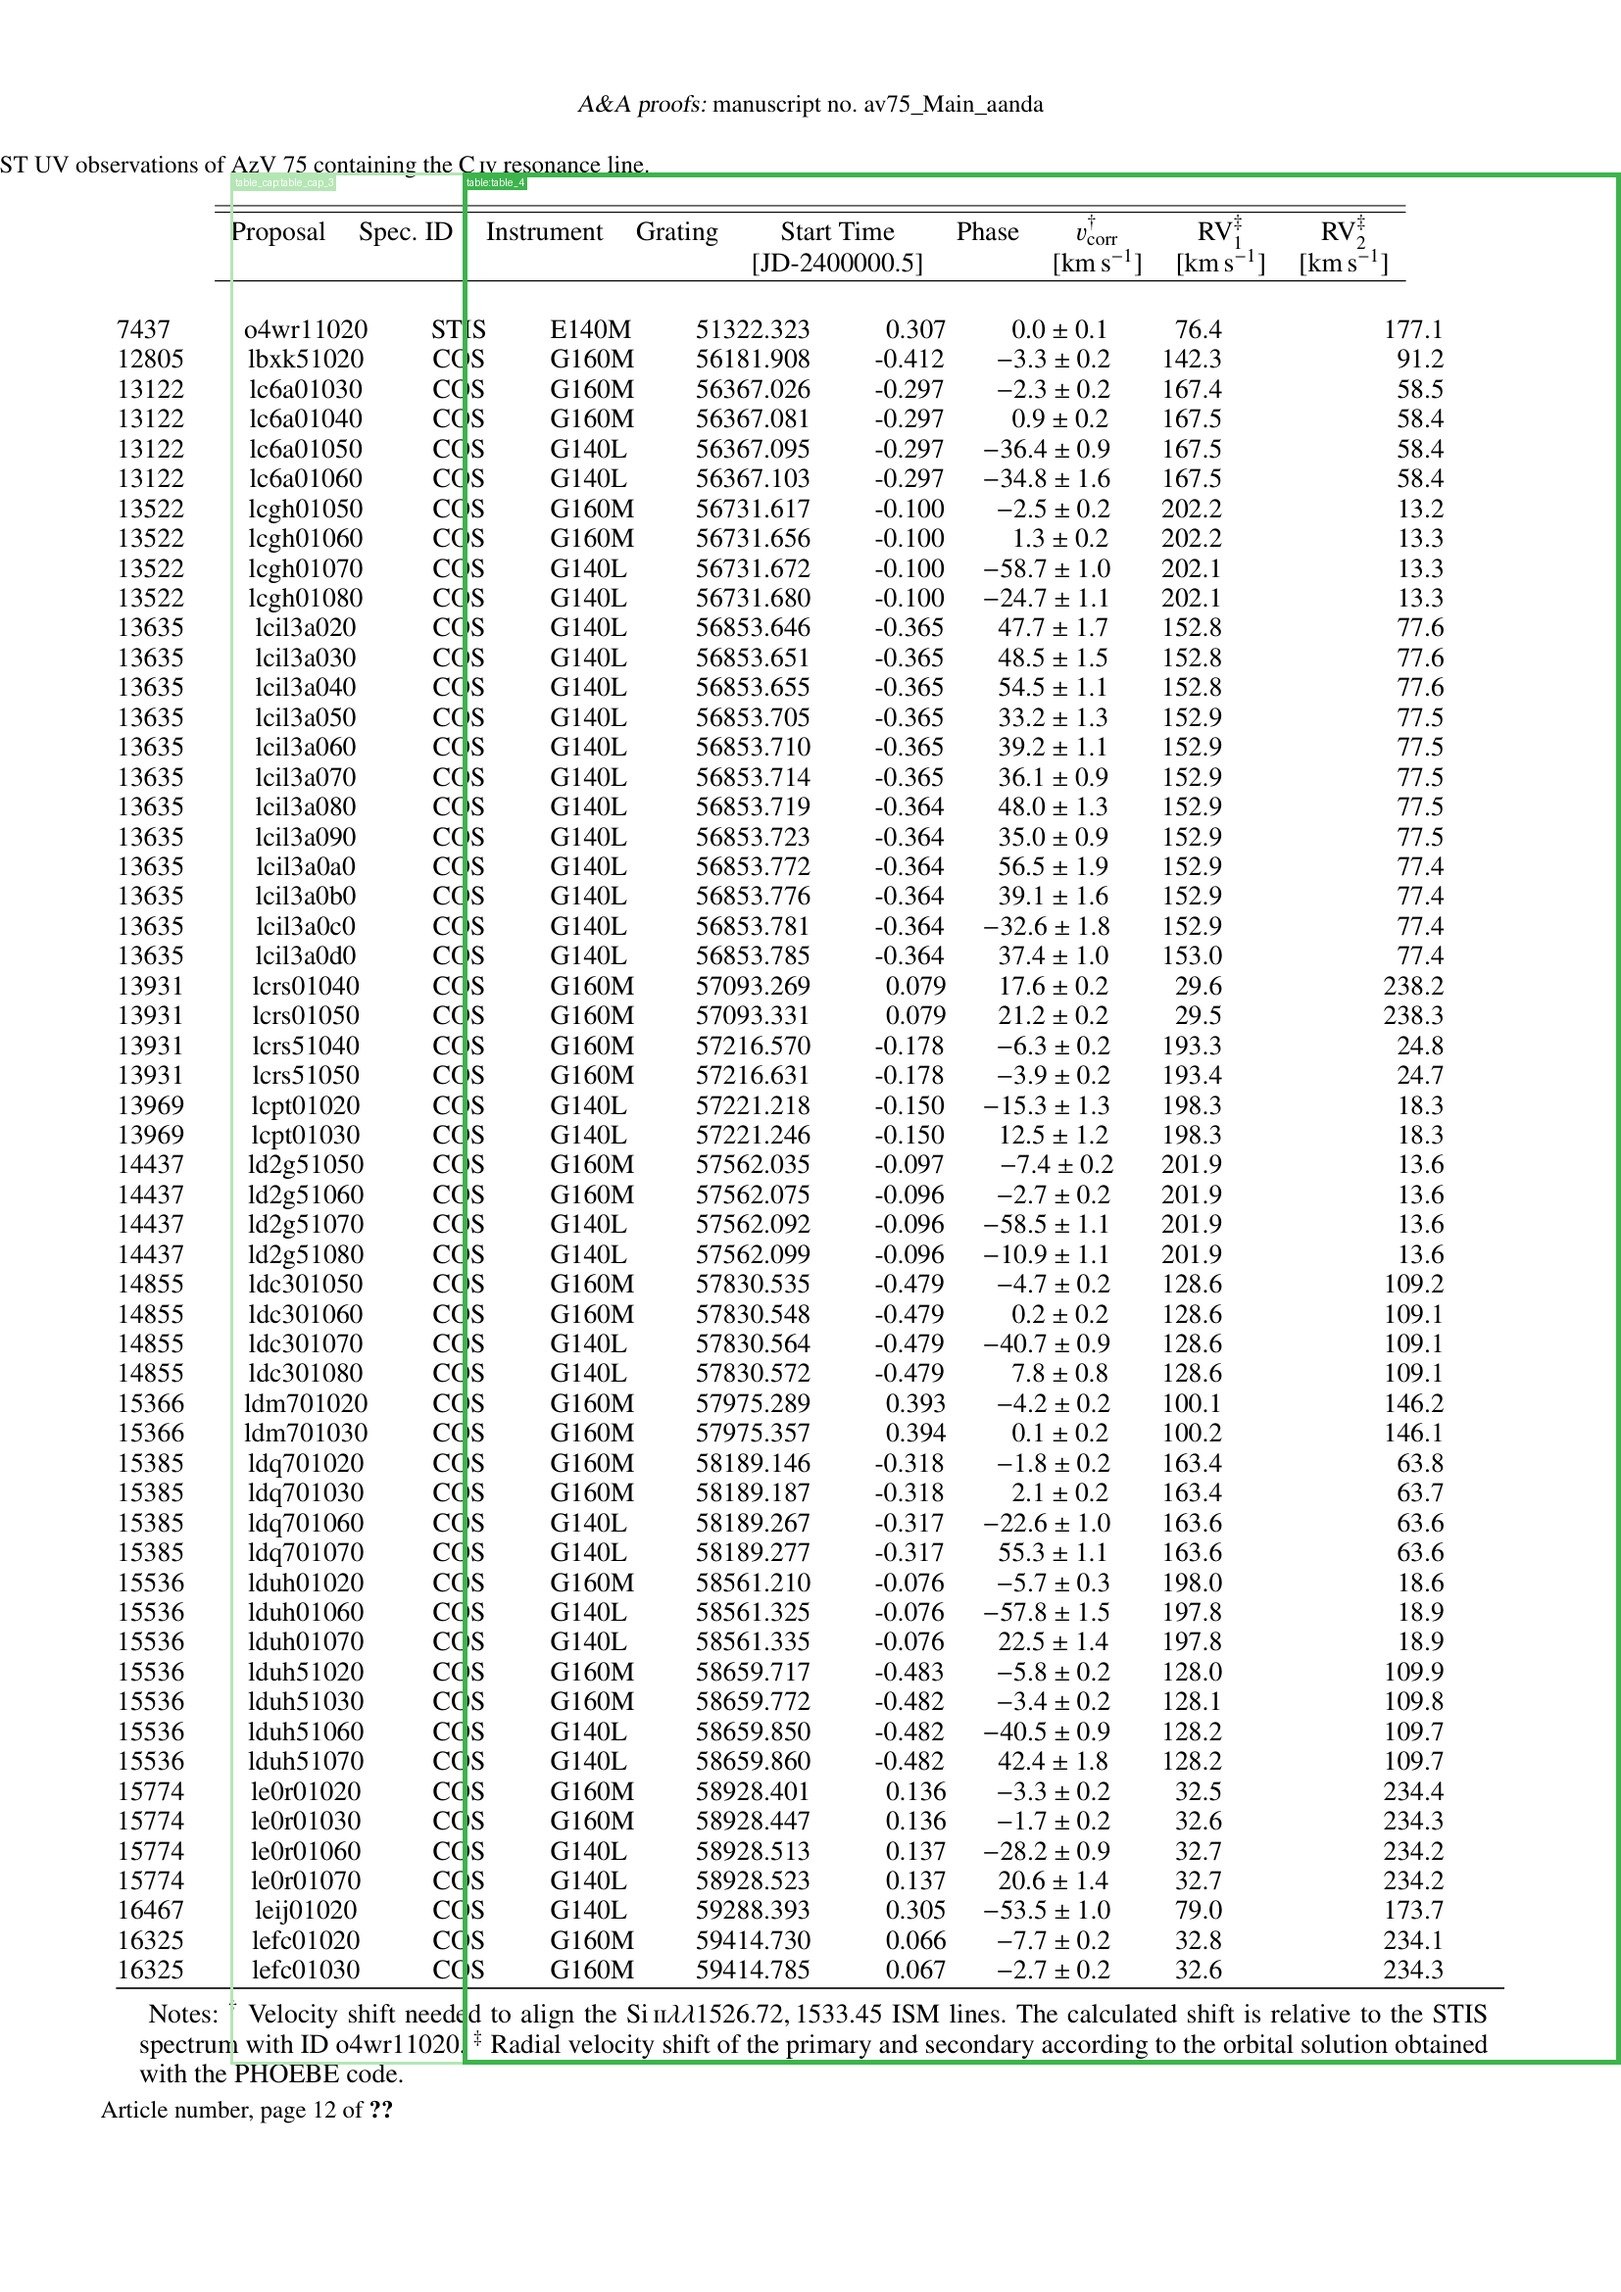
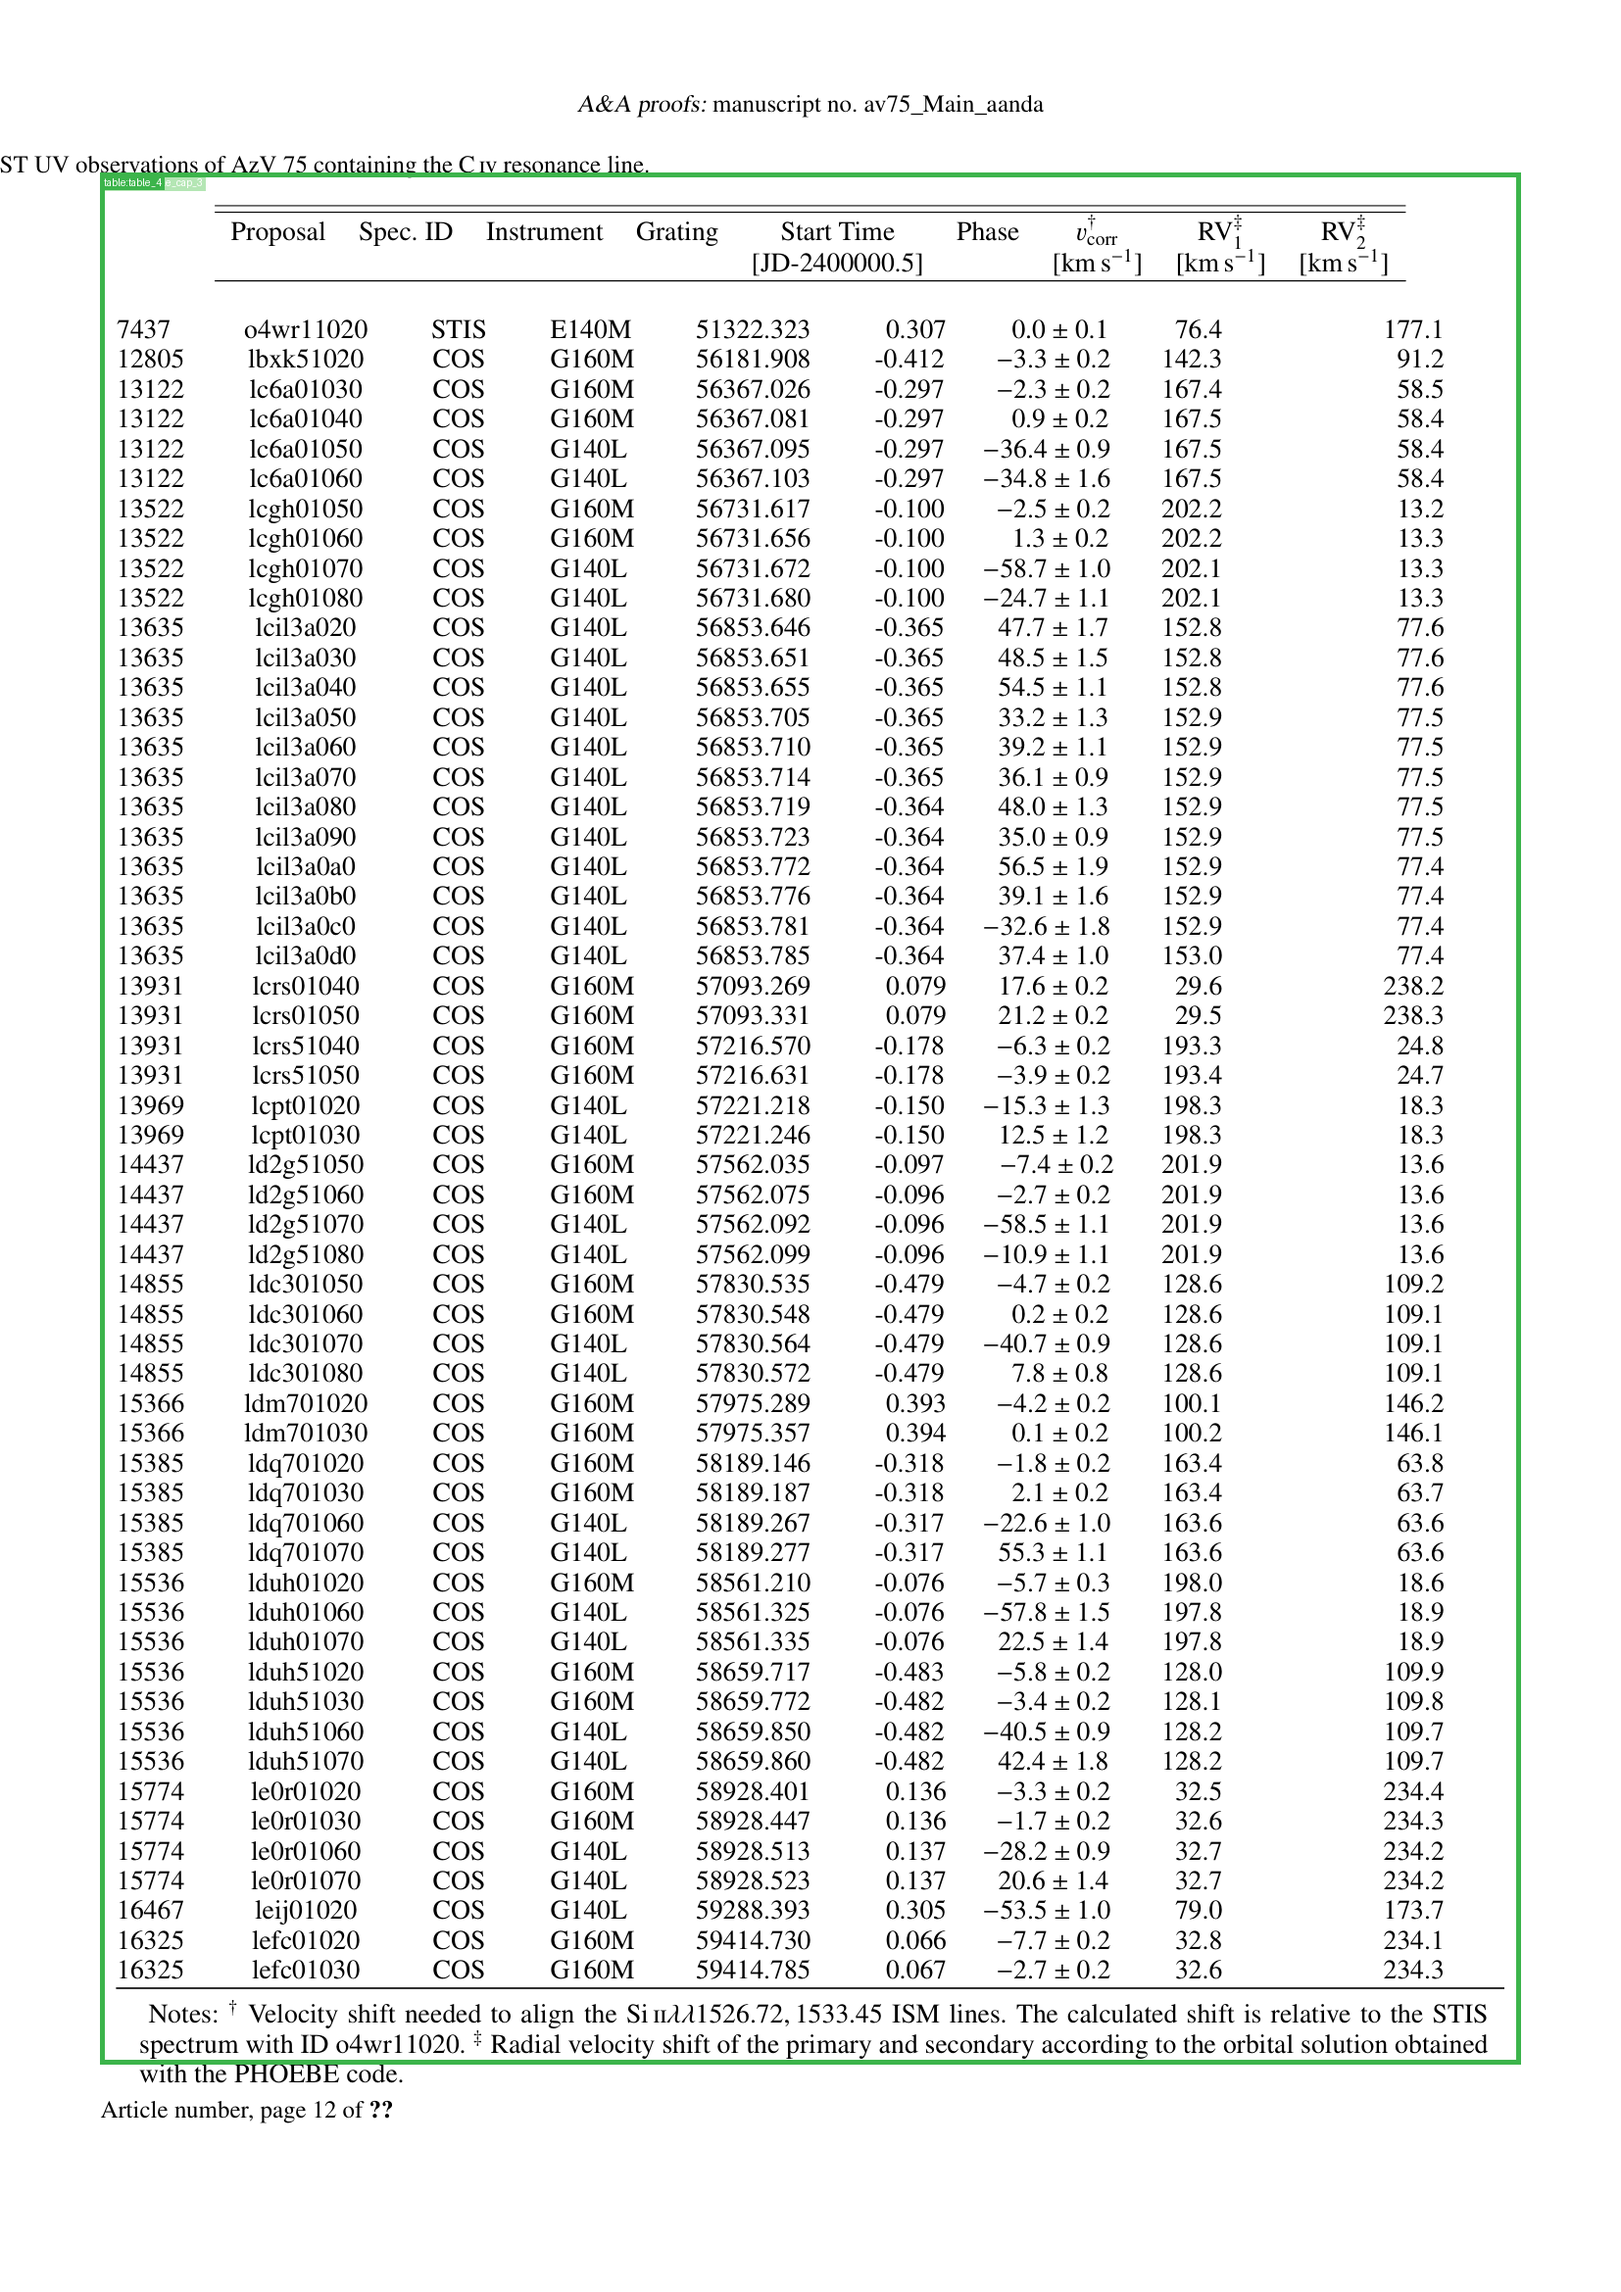
Longtable + multi-page spans cover the full textblock horizontally.
astro Table A.2 bboxes previously started at x = the top-mark's inner
x (~85pt in, i.e. at the first cell's indent). The rendered longtable
actually fills the whole textblock width, so the bbox was dropping the
leftmost column on every continuation page.

New behaviour:

- LabeledAnchor gets a ``use_textblock_x`` flag, set True by the
  longtable injector. When rendering, the x range comes from
  ``page_info.text_left_pt`` / ``text_right_pt`` regardless of where
  the top mark landed.
- Any span whose top and bot mark live on different pages is also
  forced to use the textblock x range, since by definition the object
  is wider / crosses the whole block on intermediate pages.

Verified on astro pages 12 & 13 (longtable) - bbox now covers from the
first column (Proposal) to the last column (RV_2). 51 tests repass
after rebaselining.

diff --git a/src/arxiv_layout/render.py b/src/arxiv_layout/render.py
@@ -134,20 +134,29 @@ def resolve_labels(
             if chosen_top is None or chosen_bot is None:
                 continue
 
-            # X-extent: use \the\hsize reported at the mark's location when
-            # available; otherwise fall back to column geometry.
-            mark_info = marks.get(chosen_top_name) if chosen_top_name else None
-            if mark_info is not None and mark_info.hsize_sp > 0:
-                hsize_pt = mark_info.hsize_sp / SP_PER_PT
-            else:
-                hsize_pt = page_info.columnwidth_pt or page_info.textwidth_pt
-            x0 = _pt_from_sp(chosen_top.posx_sp)
-            x1 = x0 + hsize_pt
-
             top_page = chosen_top.abspage
             bot_page = chosen_bot.abspage
             if top_page > bot_page:
                 top_page, bot_page = bot_page, top_page
+
+            # X-extent: use \the\hsize reported at the mark's location when
+            # available; otherwise fall back to column geometry. For labels
+            # that flag themselves as full-textblock (longtable) or whose
+            # span crosses pages (any cross-page float), the mark's x
+            # doesn't describe the actual render -- the rendered object
+            # covers the full textblock -- so force text_left/text_right.
+            use_textblock = label.use_textblock_x or (top_page != bot_page)
+            if use_textblock:
+                x0 = page_info.text_left_pt
+                x1 = page_info.text_right_pt
+            else:
+                mark_info = marks.get(chosen_top_name) if chosen_top_name else None
+                if mark_info is not None and mark_info.hsize_sp > 0:
+                    hsize_pt = mark_info.hsize_sp / SP_PER_PT
+                else:
+                    hsize_pt = page_info.columnwidth_pt or page_info.textwidth_pt
+                x0 = _pt_from_sp(chosen_top.posx_sp)
+                x1 = x0 + hsize_pt
 
             # For multi-page spans we clip to the textblock vertical bounds
             # so the emitted bbox doesn't bleed into headers / page numbers

diff --git a/src/arxiv_layout/injector.py b/src/arxiv_layout/injector.py
@@ -204,6 +204,13 @@ class LabeledAnchor:
     float_id: str | None     # eg figure_0 (None for freestanding listings)
     anchor_names: list[str]  # zref anchor names we read coordinates from
     method: str              # "wrap" (2D corners) or "span" (top/bot pair, x from textwidth)
+    # For envs whose rendered width is always the full textblock (longtable,
+    # multi-page spans), tell the resolver to ignore the top-mark's x and
+    # use page_info.text_left_pt / text_right_pt instead. The mark's x
+    # reported for e.g. a \begin{longtable} lands at the first cell's indent,
+    # not the table's actual left edge, so the bbox drops the leftmost
+    # column otherwise.
+    use_textblock_x: bool = False
 
     def as_dict(self) -> dict:
         return {
@@ -212,6 +219,7 @@ class LabeledAnchor:
             "float_id": self.float_id,
             "anchor_names": self.anchor_names,
             "method": self.method,
+            "use_textblock_x": self.use_textblock_x,
         }
 
 
@@ -959,6 +967,7 @@ class LatexBBoxInjector:
                     float_id=float_id,
                     anchor_names=[inner_top, inner_bot, outer_top, outer_bot],
                     method="span",
+                    use_textblock_x=True,
                 )
             )
             # for the body we use a span pair around the tabular content
@@ -970,6 +979,7 @@ class LatexBBoxInjector:
                     float_id=float_id,
                     anchor_names=[body_top, body_bot],
                     method="span",
+                    use_textblock_x=True,
                 )
             )
 
